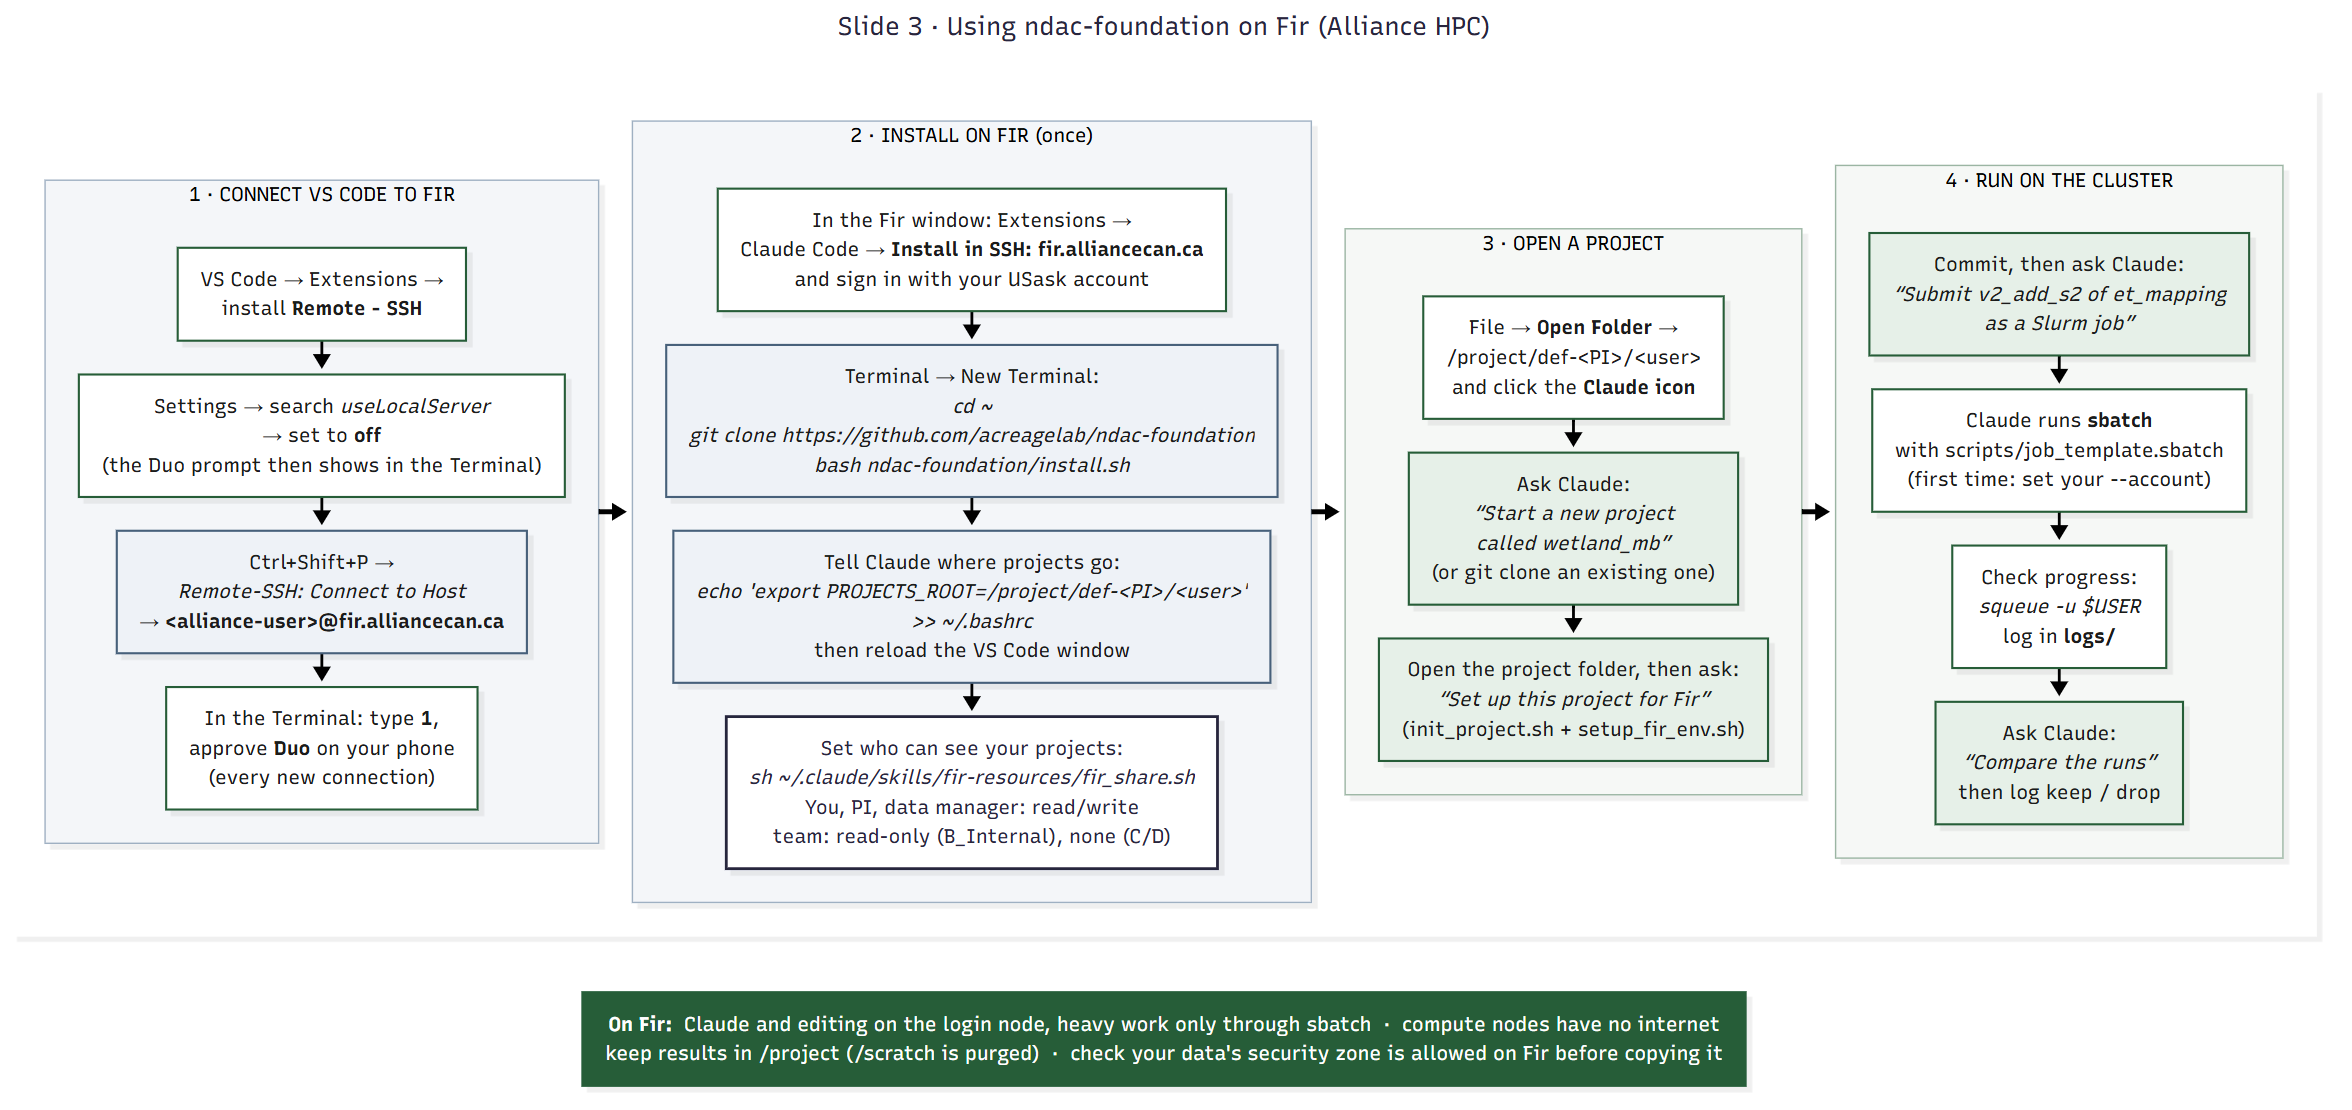
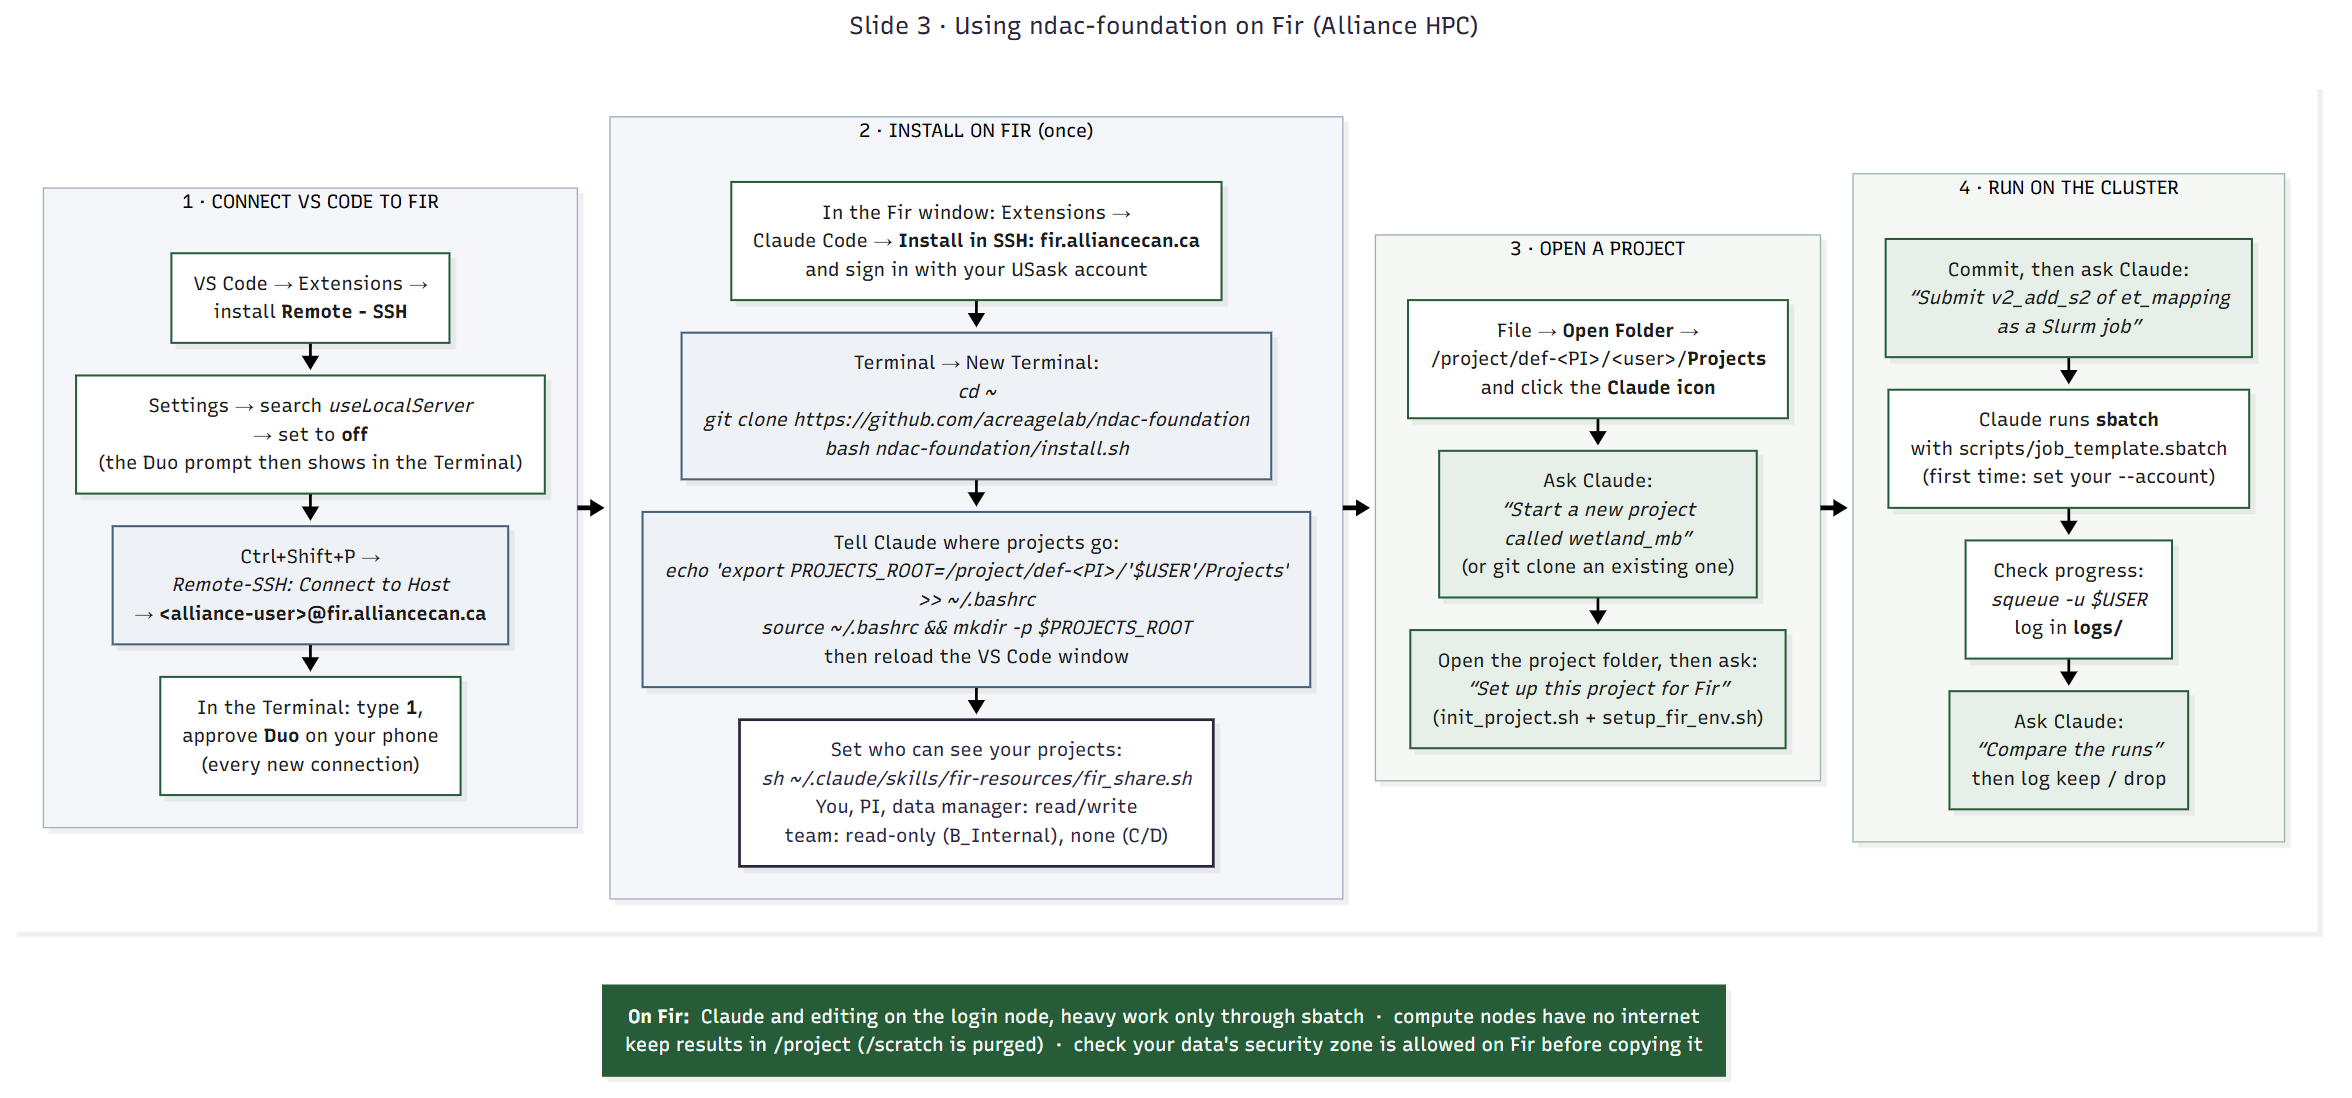
Fir: projects go in /project/<alloc>/<user>/Projects, not the user folder
Slide 3 told members to set PROJECTS_ROOT=/project/def-<PI>/<user> (no
/Projects), so new projects landed loose in the user's top folder. Fix the
slide (PROJECTS_ROOT .../'$USER'/Projects + mkdir; Open Folder .../Projects)
and the fir-resources storage table.

scaffold.py now refuses to create a project directly in
/project/<allocation>/$USER and prints the ~/.bashrc fix; the
init-data-project skill checks the root on Fir before creating.

diff --git a/skills/init-data-project/scaffold.py b/skills/init-data-project/scaffold.py
@@ -164,12 +164,24 @@ def experiments_add(root: Path, subproject: str, row: str = "") -> None:
 
 
 # ------------------------------------------------------------------------ commands
+def is_hpc_user_dir(base: Path) -> bool:
+    """True for /project/<allocation>/<user> itself: on Alliance clusters projects belong in
+    its Projects/ subfolder (PROJECTS_ROOT), never loose in the user's top folder."""
+    p = base.as_posix().rstrip("/").split("/")
+    return len(p) == 4 and p[:2] == ["", "project"] and p[3] == os.environ.get("USER", "")
+
+
 def cmd_new(a) -> None:
     check_name(a.name, "project")
     template = Path(a.template)
     if not (template / "CLAUDE.md").exists():
         sys.exit(f"ERROR: template not found or has no CLAUDE.md: {template}")
     base = Path(a.base).expanduser()
+    if is_hpc_user_dir(base):
+        sys.exit(f"ERROR: {base} is your top folder on /project; projects go in "
+                 f"{base}/Projects. Fix PROJECTS_ROOT in ~/.bashrc:\n"
+                 f"  export PROJECTS_ROOT={base}/Projects\n"
+                 f"then: source ~/.bashrc && mkdir -p $PROJECTS_ROOT")
     if not base.is_dir():
         sys.exit(f"ERROR: parent folder does not exist: {base} "
                  f"(create it, or pass --base / set PROJECTS_ROOT).")

diff --git a/skills/init-data-project/SKILL.md b/skills/init-data-project/SKILL.md
@@ -26,7 +26,9 @@ get the change when they update the plugin. Existing projects are not touched.
    If not given, ask.
 2. Resolve `<projects-root>`: `--base DIR`, else the `PROJECTS_ROOT` environment
    variable, else `~/Projects`. Show it and confirm with the user if they haven't said
-   where. Run `python "<skill-dir>/scaffold.py" new <name>` (add `--base <dir>` if needed).
+   where. On Fir it must be `/project/<allocation>/<user>/Projects`; if `PROJECTS_ROOT` is
+   the user's top folder (no `/Projects`), stop and help fix `~/.bashrc` first (the script
+   refuses that path too). Run `python "<skill-dir>/scaffold.py" new <name>` (add `--base <dir>` if needed).
    - The script refuses if the folder exists. Never delete or overwrite a project to get
      around this.
    - `<AUTHOR>`/`<EMAIL>` come from `git config user.name`/`user.email`. If it reports

diff --git a/skills/fir-resources/SKILL.md b/skills/fir-resources/SKILL.md
@@ -27,7 +27,7 @@ Never start heavy computation on a login node: it slows the node for everyone an
 
 | Data | Storage | Notes |
 |---|---|---|
-| Code, configs, docs (the project) | `/project/<allocation>/<user>/<project>` | backed up, group-shared |
+| Code, configs, docs (the project) | `/project/<allocation>/<user>/Projects/<project>` (`$PROJECTS_ROOT`) | backed up |
 | Raw inputs, final results | `/project/...` | backed up, permanent; register inputs in docs/data_sources.md |
 | Big intermediate files, large run outputs | `/scratch/$USER/<project>` | fast, large, **NOT backed up, purged when old**; never the only copy |
 | Data a job reads heavily | node-local `$SLURM_TMPDIR` | fastest; deleted at job end; use `STAGE=1` so results are copied back |
